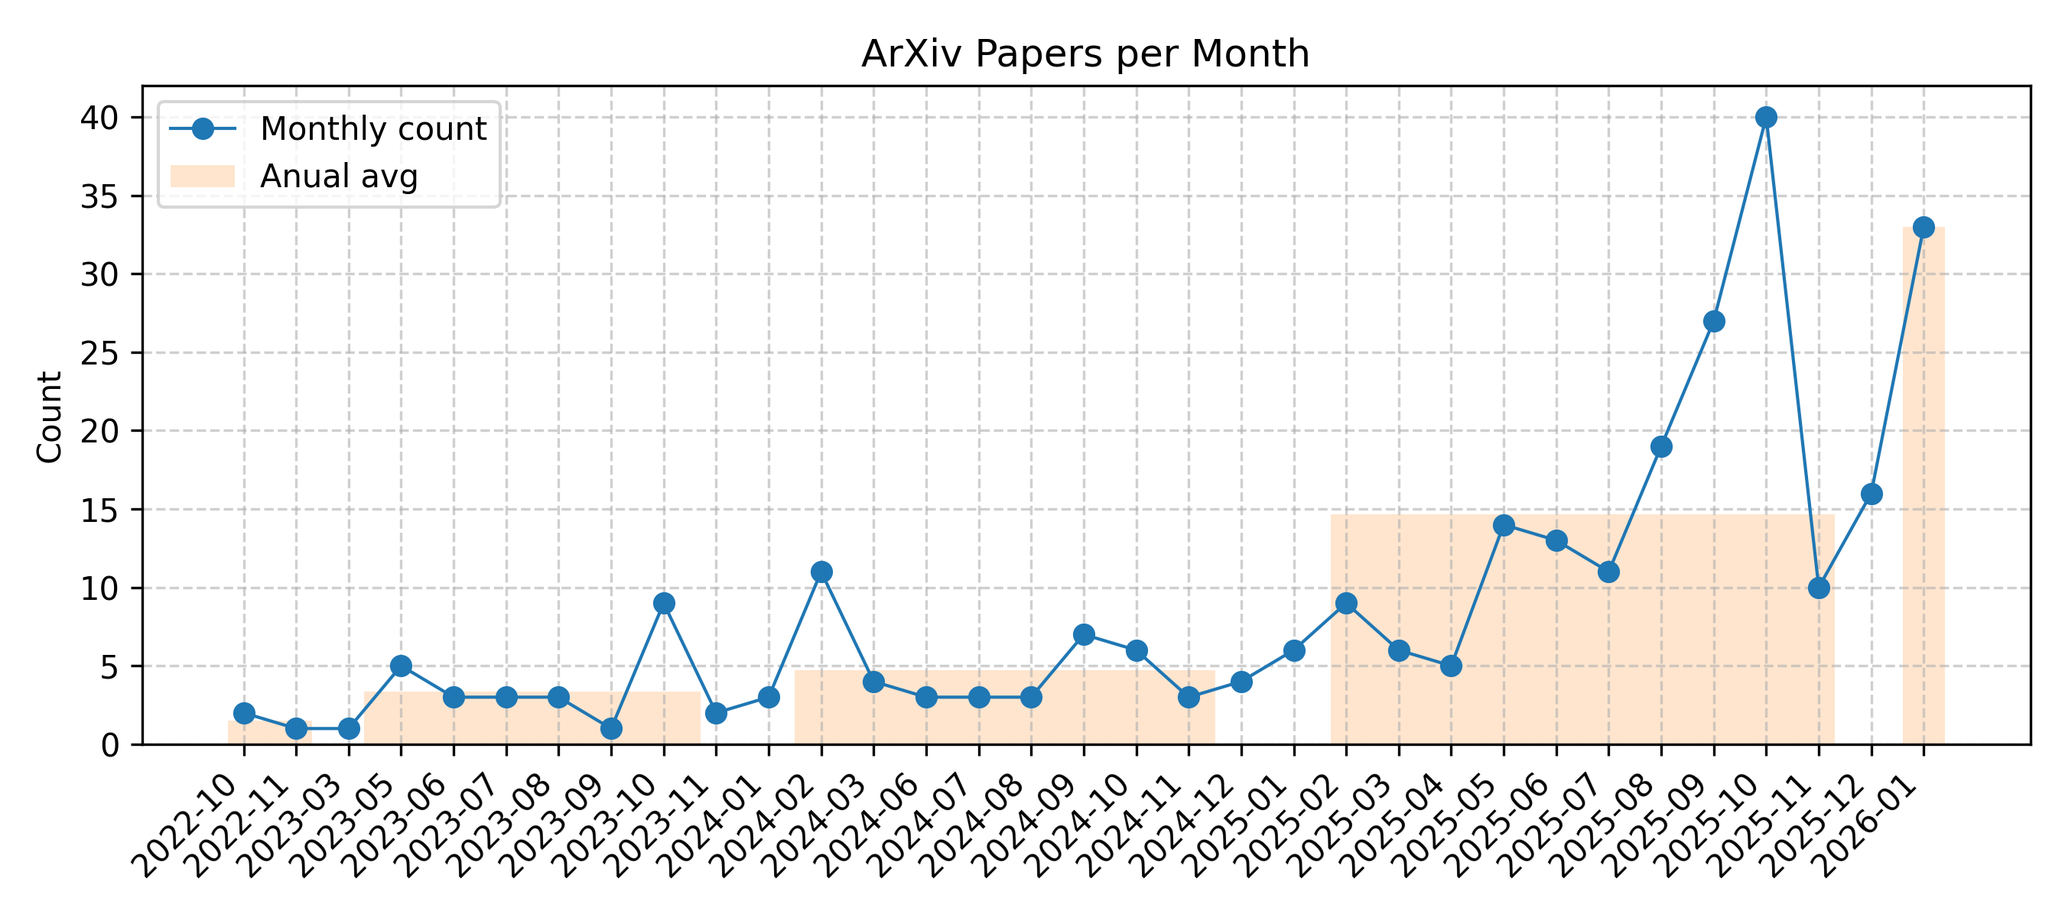
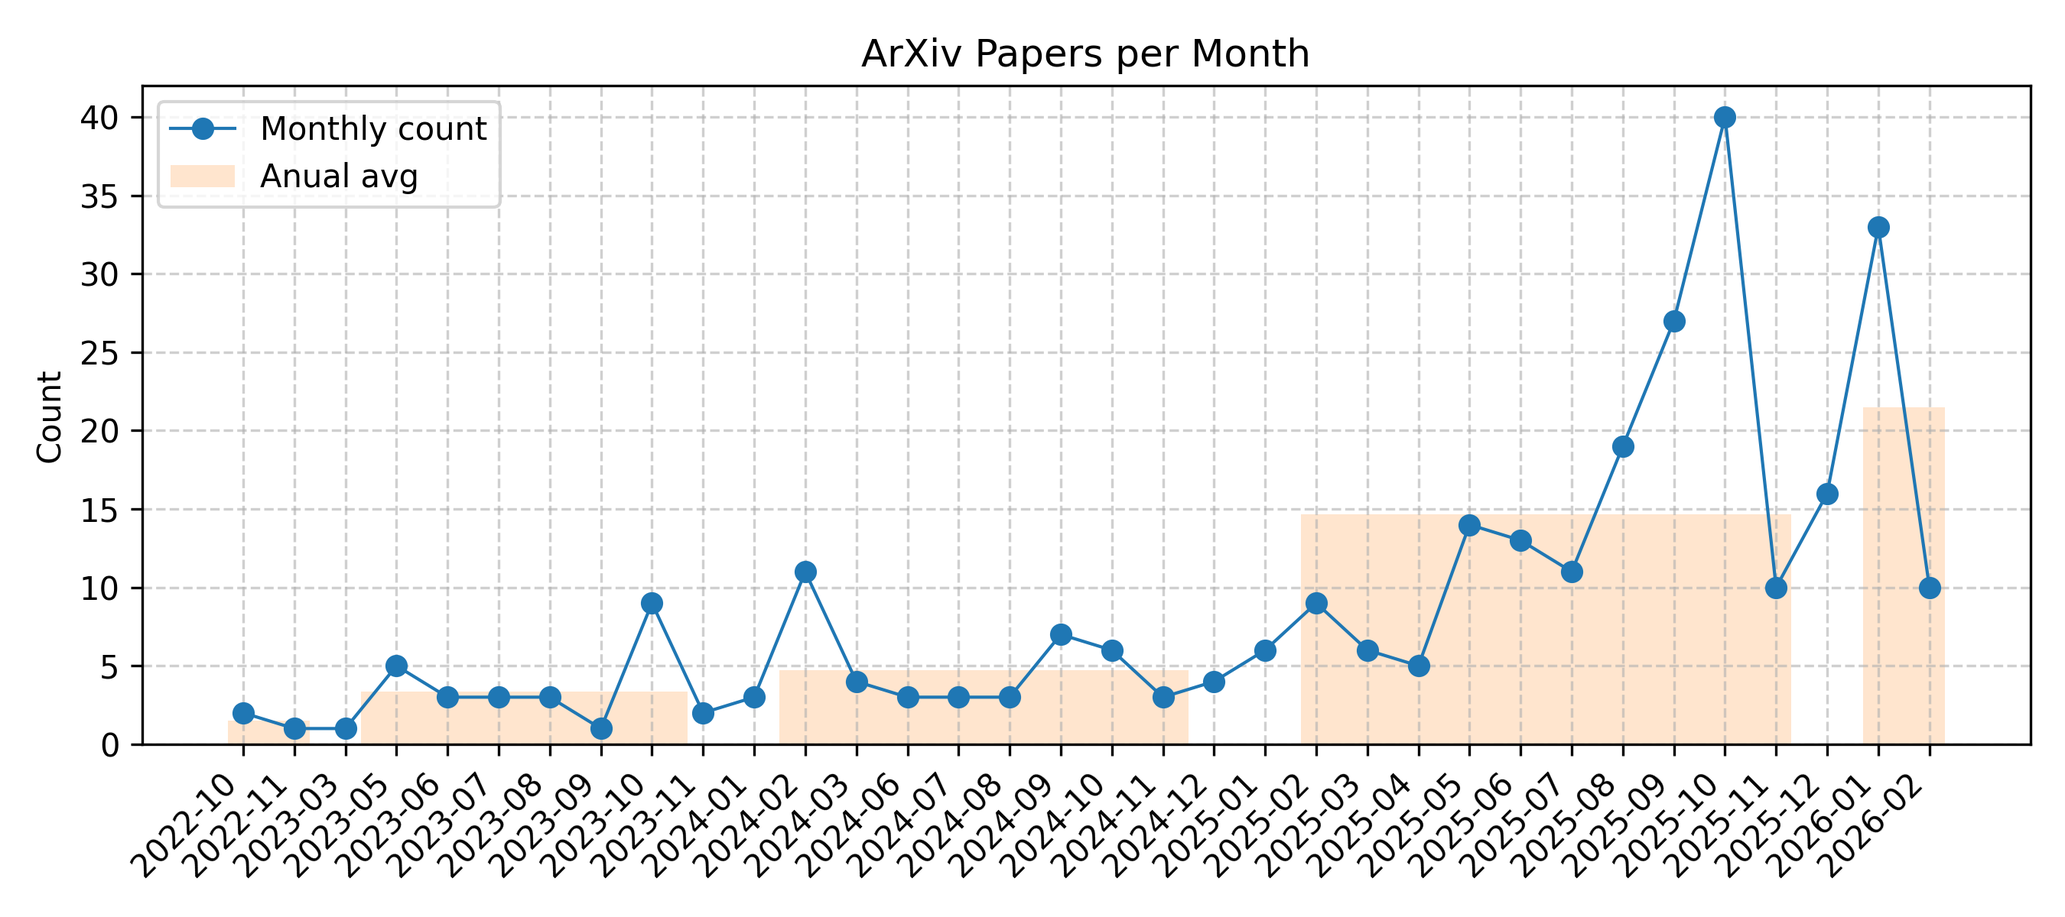
Github Action Automatic Update Diffusion NLP Arxiv Papers

Changed region(s): [[0.0622, 0.0925, 0.9644, 0.9558]]

diff --git a/README.md b/README.md
@@ -5,7 +5,7 @@
 
 For more carefully curated articles, you can refer to this [repository](https://github.com/bansky-cl/Diffusion_NLP_Papers).
 
-## Updated on 2026.02.02
+## Updated on 2026.02.03
 
 ![Monthly Trend](imgs/trend.png)
 
@@ -13,6 +13,16 @@ For more carefully curated articles, you can refer to this [repository](https://
 
 |Date|Title|label|Abstract|PDF|Code|
 |---|---|---|---|---|---|
+|**2026-02-02**|**AR-MAP: Are Autoregressive Large Language Models Implicit Teachers for Diffusion Large Language Models?**|cs.CL| <details><summary>Full Abstract</summary>Diffusion Large Language Models (DLLMs) have emerged as a powerful alternative to autoregressive models, enabling parallel token generation across multiple positions. However, preference alignment of DLLMs remains challenging due to high variance introduced by Evidence Lower Bound (ELBO)-based likelihood estimation. In this work, we propose AR-MAP, a novel transfer learning framework that leverages preference-aligned autoregressive LLMs (AR-LLMs) as implicit teachers for DLLM alignment. We reveal that DLLMs can effectively absorb alignment knowledge from AR-LLMs through simple weight scaling, exploiting the shared architectural structure between these divergent generation paradigms. Crucially, our approach circumvents the high variance and computational overhead of direct DLLM alignment and comprehensive experiments across diverse preference alignment tasks demonstrate that AR-MAP achieves competitive or superior performance compared to existing DLLM-specific alignment methods, achieving 69.08\% average score across all tasks and models. Our Code is available at https://github.com/AMAP-ML/AR-MAP.</details>|[2602.02178v1](http://arxiv.org/abs/2602.02178v1)| null|
+|**2026-02-02**|**Focus-dLLM: Accelerating Long-Context Diffusion LLM Inference via Confidence-Guided Context Focusing**|cs.CL| <details><summary>Full Abstract</summary>Diffusion Large Language Models (dLLMs) deliver strong long-context processing capability in a non-autoregressive decoding paradigm. However, the considerable computational cost of bidirectional full attention limits the inference efficiency. Although sparse attention is promising, existing methods remain ineffective. This stems from the need to estimate attention importance for tokens yet to be decoded, while the unmasked token positions are unknown during diffusion. In this paper, we present Focus-dLLM, a novel training-free attention sparsification framework tailored for accurate and efficient long-context dLLM inference. Based on the finding that token confidence strongly correlates across adjacent steps, we first design a past confidence-guided indicator to predict unmasked regions. Built upon this, we propose a sink-aware pruning strategy to accurately estimate and remove redundant attention computation, while preserving highly influential attention sinks. To further reduce overhead, this strategy reuses identified sink locations across layers, leveraging the observed cross-layer consistency. Experimental results show that our method offers more than $29\times$ lossless speedup under $32K$ context length. The code is publicly available at: https://github.com/Longxmas/Focus-dLLM</details>|[2602.02159v1](http://arxiv.org/abs/2602.02159v1)| null|
+|**2026-02-02**|**Understanding the Reversal Curse Mitigation in Masked Diffusion Models through Attention and Training Dynamics**|cs.AI, cs.CL| <details><summary>Full Abstract</summary>Autoregressive language models (ARMs) suffer from the reversal curse: after learning that "$A$ is $B$", they often fail on the reverse query "$B$ is $A$". Masked diffusion-based language models (MDMs) exhibit this failure in a much weaker form, but the underlying reason has remained unclear. A common explanation attributes this mitigation to the any-order training objective. However, observing "[MASK] is $B$" during training does not necessarily teach the model to handle the reverse prompt "$B$ is [MASK]". We show that the mitigation arises from architectural structure and its interaction with training. In a one-layer Transformer encoder, weight sharing couples the two directions by making forward and reverse attention scores positively correlated. In the same setting, we further show that the corresponding gradients are aligned, so minimizing the forward loss also reduces the reverse loss. Experiments on both controlled toy tasks and large-scale diffusion language models support these mechanisms, explaining why MDMs partially overcome a failure mode that persists in strong ARMs.</details>|[2602.02133v1](http://arxiv.org/abs/2602.02133v1)| null|
+|**2026-02-02**|**Unifying Masked Diffusion Models with Various Generation Orders and Beyond**|cs.LG, cs.AI, cs.CL| <details><summary>Full Abstract</summary>Masked diffusion models (MDMs) are a potential alternative to autoregressive models (ARMs) for language generation, but generation quality depends critically on the generation order. Prior work either hard-codes an ordering (e.g., blockwise left-to-right) or learns an ordering policy for a pretrained MDM, which incurs extra cost and can yield suboptimal solutions due to the two-stage optimization. Motivated by this, we propose order-expressive masked diffusion model (OeMDM) for a broad class of diffusion generative processes with various generation orders, enabling the interpretation of MDM, ARM, and block diffusion in a single framework. Furthermore, building on OeMDM, we introduce learnable-order masked diffusion model (LoMDM), which jointly learns the generation ordering and diffusion backbone through a single objective from scratch, enabling the diffusion model to generate text in context-dependent ordering. Empirically, we confirm that LoMDM outperforms various discrete diffusion models across multiple language modeling benchmarks.</details>|[2602.02112v1](http://arxiv.org/abs/2602.02112v1)| null|
+|**2026-02-01**|**Balancing Understanding and Generation in Discrete Diffusion Models**|cs.CL| <details><summary>Full Abstract</summary>In discrete generative modeling, two dominant paradigms demonstrate divergent capabilities: Masked Diffusion Language Models (MDLM) excel at semantic understanding and zero-shot generalization, whereas Uniform-noise Diffusion Language Models (UDLM) achieve strong few-step generation quality, yet neither attains balanced performance across both dimensions. To address this, we propose XDLM, which bridges the two paradigms via a stationary noise kernel. XDLM offers two key contributions: (1) it provides a principled theoretical unification of MDLM and UDLM, recovering each paradigm as a special case; and (2) an alleviated memory bottleneck enabled by an algebraic simplification of the posterior probabilities. Experiments demonstrate that XDLM advances the Pareto frontier between understanding capability and generation quality. Quantitatively, XDLM surpasses UDLM by 5.4 points on zero-shot text benchmarks and outperforms MDLM in few-step image generation (FID 54.1 vs. 80.8). When scaled to tune an 8B-parameter large language model, XDLM achieves 15.0 MBPP in just 32 steps, effectively doubling the baseline performance. Finally, analysis of training dynamics reveals XDLM's superior potential for long-term scaling. Code is available at https://github.com/MzeroMiko/XDLM</details>|[2602.01362v1](http://arxiv.org/abs/2602.01362v1)| null|
+|**2026-02-01**|**DreamOn: Diffusion Language Models For Code Infilling Beyond Fixed-size Canvas**|cs.CL| <details><summary>Full Abstract</summary>Diffusion Language Models (DLMs) present a compelling alternative to autoregressive models, offering flexible, any-order infilling without specialized prompting design. However, their practical utility is blocked by a critical limitation: the requirement of a fixed-length masked sequence for generation. This constraint severely degrades code infilling performance when the predefined mask size mismatches the ideal completion length. To address this, we propose DreamOn, a novel diffusion framework that enables dynamic, variable-length generation. DreamOn augments the diffusion process with two length control states, allowing the model to autonomously expand or contract the output length based solely on its own predictions. We integrate this mechanism into existing DLMs with minimal modifications to the training objective and no architectural changes. Built upon Dream-Coder-7B and DiffuCoder-7B, DreamOn achieves infilling performance on par with state-of-the-art autoregressive models on HumanEval-Infilling and SantaCoder-FIM and matches oracle performance achieved with ground-truth length. Our work removes a fundamental barrier to the practical deployment of DLMs, significantly advancing their flexibility and applicability for variable-length generation. Our code is available at https://github.com/DreamLM/DreamOn.</details>|[2602.01326v1](http://arxiv.org/abs/2602.01326v1)| null|
+|**2026-01-31**|**Lookahead-then-Verify: Reliable Constrained Decoding for Diffusion LLMs under Context-Free Grammars**|cs.CL| <details><summary>Full Abstract</summary>Diffusion Large Language Models (dLLMs) have demonstrated promising generative capabilities and are increasingly used to produce formal languages defined by context-free grammars, such as source code and chemical expressions. However, as probabilistic models, they still struggle to generate syntactically valid outputs reliably. A natural and promising direction to address this issue is to adapt constrained decoding techniques to enforce grammatical correctness during generation. However, applying these techniques faces two primary obstacles. On the one hand, the non-autoregressive nature of dLLMs renders most existing constrained decoding approaches inapplicable. On the other hand, current approaches specifically designed for dLLMs may allow intermediate outputs that are impossible to complete into valid sentences, which significantly limits their reliability in practice.   To address these challenges, we present LAVE, a constrained decoding approach specifically designed for dLLMs. Our approach leverages a key property of dLLMs, namely their ability to predict token distributions for all positions in parallel during each forward pass. Whenever a new token is proposed by model, LAVE performs lookahead using these distributions to efficiently and reliably verify the validity of the proposed token. This design ensures reliable constraints by reliably preserving the potential for intermediate outputs to be extended into valid sentences. Extensive experiments across four widely used dLLMs and three representative benchmarks demonstrate that LAVE consistently outperforms existing baselines and achieves substantial improvements in syntactic correctness, while incurring negligible runtime overhead.</details>|[2602.00612v1](http://arxiv.org/abs/2602.00612v1)| null|
+|**2026-01-31**|**Diffusion LMs Can Approximate Optimal Infilling Lengths Implicitly**|cs.LG, cs.CL| <details><summary>Full Abstract</summary>Diffusion language models (DLMs) provide a bidirectional generation framework naturally suited for infilling, yet their performance is constrained by the pre-specified infilling length. In this paper, we reveal that DLMs possess an inherent ability to discover the correct infilling length. We identify two key statistical phenomena in the first-step denoising confidence: a local \textit{Oracle Peak} that emerges near the ground-truth length and a systematic \textit{Length Bias} that often obscures this signal. By leveraging this signal and calibrating the bias, our training-free method \textbf{CAL} (\textbf{C}alibrated \textbf{A}daptive \textbf{L}ength) enables DLMs to approximate the optimal length through an efficient search before formal decoding. Empirical evaluations demonstrate that CAL improves Pass@1 by up to 47.7\% over fixed-length baselines and 40.5\% over chat-based adaptive methods in code infilling, while boosting BLEU-2 and ROUGE-L by up to 8.5\% and 9.9\% in text infilling. These results demonstrate that CAL paves the way for robust DLM infilling without requiring any specialized training. Code is available at https://github.com/NiuHechang/Calibrated_Adaptive_Length.</details>|[2602.00476v1](http://arxiv.org/abs/2602.00476v1)| null|
+|**2026-01-30**|**TABES: Trajectory-Aware Backward-on-Entropy Steering for Masked Diffusion Models**|cs.LG, cs.AI, cs.CL| <details><summary>Full Abstract</summary>Masked Diffusion Models (MDMs) have emerged as a promising non-autoregressive paradigm for generative tasks, offering parallel decoding and bidirectional context utilization. However, current sampling methods rely on simple confidence-based heuristics that ignore the long-term impact of local decisions, leading to trajectory lock-in where early hallucinations cascade into global incoherence. While search-based methods mitigate this, they incur prohibitive computational costs ($O(K)$ forward passes per step). In this work, we propose Backward-on-Entropy (BoE) Steering, a gradient-guided inference framework that approximates infinite-horizon lookahead via a single backward pass. We formally derive the Token Influence Score (TIS) from a first-order expansion of the trajectory cost functional, proving that the gradient of future entropy with respect to input embeddings serves as an optimal control signal for minimizing uncertainty. To ensure scalability, we introduce \texttt{ActiveQueryAttention}, a sparse adjoint primitive that exploits the structure of the masking objective to reduce backward pass complexity. BoE achieves a superior Pareto frontier for inference-time scaling compared to existing unmasking methods, demonstrating that gradient-guided steering offers a mathematically principled and efficient path to robust non-autoregressive generation. We will release the code.</details>|[2602.00250v1](http://arxiv.org/abs/2602.00250v1)| null|
+|**2026-01-29**|**Reversible Diffusion Decoding for Diffusion Language Models**|cs.CL, cs.AI| <details><summary>Full Abstract</summary>Diffusion language models enable parallel token generation through block-wise decoding, but their irreversible commitments can lead to stagnation, where the reverse diffusion process fails to make further progress under a suboptimal context.We propose Reversible Diffusion Decoding (RDD), a decoding framework that introduces reversibility into block-wise diffusion generation. RDD detects stagnation as a state-dependent failure of the reverse process and enables efficient backtracking to earlier blocks without recomputation via cached model states. To avoid repeated failure trajectories, RDD applies confidence-guided re-masking to selectively reinitialize uncertain tokens while preserving reliable context.This reversible formulation allows decoding to recover from early commitment errors while maintaining the parallel efficiency of diffusion-based generation. Experiments show that RDD improves generation robustness and quality over baselines with minimal computational overhead.</details>|[2602.00150v1](http://arxiv.org/abs/2602.00150v1)| null|
 |**2026-01-30**|**FourierSampler: Unlocking Non-Autoregressive Potential in Diffusion Language Models via Frequency-Guided Generation**|cs.CL| <details><summary>Full Abstract</summary>Despite the non-autoregressive potential of diffusion language models (dLLMs), existing decoding strategies demonstrate positional bias, failing to fully unlock the potential of arbitrary generation. In this work, we delve into the inherent spectral characteristics of dLLMs and present the first frequency-domain analysis showing that low-frequency components in hidden states primarily encode global structural information and long-range dependencies, while high-frequency components are responsible for characterizing local details. Based on this observation, we propose FourierSampler, which leverages a frequency-domain sliding window mechanism to dynamically guide the model to achieve a "structure-to-detail" generation. FourierSampler outperforms other inference enhancement strategies on LLADA and SDAR, achieving relative improvements of 20.4% on LLaDA1.5-8B and 16.0% on LLaDA-8B-Instruct. It notably surpasses similarly sized autoregressive models like Llama3.1-8B-Instruct.</details>|[2601.23182v1](http://arxiv.org/abs/2601.23182v1)| null|
 |**2026-01-30**|**Residual Context Diffusion Language Models**|cs.CL, cs.AI| <details><summary>Full Abstract</summary>Diffusion Large Language Models (dLLMs) have emerged as a promising alternative to purely autoregressive language models because they can decode multiple tokens in parallel. However, state-of-the-art block-wise dLLMs rely on a "remasking" mechanism that decodes only the most confident tokens and discards the rest, effectively wasting computation. We demonstrate that recycling computation from the discarded tokens is beneficial, as these tokens retain contextual information useful for subsequent decoding iterations. In light of this, we propose Residual Context Diffusion (RCD), a module that converts these discarded token representations into contextual residuals and injects them back for the next denoising step. RCD uses a decoupled two-stage training pipeline to bypass the memory bottlenecks associated with backpropagation. We validate our method on both long CoT reasoning (SDAR) and short CoT instruction following (LLaDA) models. We demonstrate that a standard dLLM can be efficiently converted to the RCD paradigm with merely ~1 billion tokens. RCD consistently improves frontier dLLMs by 5-10 points in accuracy with minimal extra computation overhead across a wide range of benchmarks. Notably, on the most challenging AIME tasks, RCD nearly doubles baseline accuracy and attains up to 4-5x fewer denoising steps at equivalent accuracy levels.</details>|[2601.22954v1](http://arxiv.org/abs/2601.22954v1)| null|
 |**2026-01-30**|**Relaxing Positional Alignment in Masked Diffusion Language Models**|cs.CL, cs.LG| <details><summary>Full Abstract</summary>Masked diffusion language models (MDLMs) have emerged as a promising alternative to dominant autoregressive approaches. Although they achieve competitive performance on several tasks, a substantial gap remains in open-ended text generation. We hypothesize that one cause of this gap is that strict positional prediction makes MDLM decoding highly sensitive to token misalignment, and we show through controlled interventions that a one-position shift can severely disrupt semantics. This observation suggests that enforcing strict positional supervision during training is misaligned with the irreversible denoising dynamics of MDLM decoding. Motivated by this mismatch, we adopt an alignment-flexible supervision strategy during fine-tuning. Specifically, we introduce a special token <slack> via the connectionist temporal classification objective. We apply this approach to the widely used MDLM model and conduct experiments on five open-ended text generation benchmarks. Our method consistently outperforms the original model and improves robustness to positional shifts, indicating that relaxing strict positional supervision is an important factor in improving generation quality in MDLMs.</details>|[2601.22947v1](http://arxiv.org/abs/2601.22947v1)| null|
@@ -300,7 +310,7 @@ For more carefully curated articles, you can refer to this [repository](https://
 |**2022-11-01**|**DiffusER: Discrete Diffusion via Edit-based Reconstruction**|cs.CL, cs.LG| <details><summary>Full Abstract</summary>In text generation, models that generate text from scratch one token at a time are currently the dominant paradigm. Despite being performant, these models lack the ability to revise existing text, which limits their usability in many practical scenarios. We look to address this, with DiffusER (Diffusion via Edit-based Reconstruction), a new edit-based generative model for text based on denoising diffusion models -- a class of models that use a Markov chain of denoising steps to incrementally generate data. DiffusER is not only a strong generative model in general, rivalling autoregressive models on several tasks spanning machine translation, summarization, and style transfer; it can also perform other varieties of generation that standard autoregressive models are not well-suited for. For instance, we demonstrate that DiffusER makes it possible for a user to condition generation on a prototype, or an incomplete sequence, and continue revising based on previous edit steps.</details>|[2210.16886v1](http://arxiv.org/abs/2210.16886v1)| null|
 |**2023-02-01**|**Diffuser: Efficient Transformers with Multi-hop Attention Diffusion for Long Sequences**|cs.LG, cs.CL|<details><summary>Full Abstract</summary>Efficient Transformers have been developed for long sequence modeling, due to their subquadratic memory and time complexity. Sparse Transformer is a popular approach to improving the efficiency of Transformers by restricting self-attention to locations specified by the predefined sparse patterns. However, leveraging sparsity may sacrifice expressiveness compared to full-attention, when important token correlations are multiple hops away. To combine advantages of both the efficiency of sparse transformer and the expressiveness of full-attention Transformer, we propose \textit{Diffuser}, a new state-of-the-art efficient Transformer. Diffuser incorporates all token interactions within one attention layer while maintaining low computation and memory costs. The key idea is to expand the receptive field of sparse attention using Attention Diffusion, which computes multi-hop token correlations based on all paths between corresponding disconnected tokens, besides attention among neighboring tokens. Theoretically, we show the expressiveness of Diffuser as a universal sequence approximator for sequence-to-sequence modeling, and investigate its ability to approximate full-attention by analyzing the graph expander property from the spectral perspective. Experimentally, we investigate the effectiveness of Diffuser with extensive evaluations, including language modeling, image modeling, and Long Range Arena (LRA). Evaluation results show that Diffuser achieves improvements by an average of 0.94% on text classification tasks and 2.30% on LRA, with 1.67$\times$ memory savings compared to state-of-the-art benchmarks, which demonstrates superior performance of Diffuser in both expressiveness and efficiency aspects.</details>|[2210.11794v2](http://arxiv.org/abs/2210.11794v2)|**[link](https://github.com/asFeng/Diffuser)**|
 
-<p align=right>(<a href=#Updated-on-20260202>back to top</a>)</p>
+<p align=right>(<a href=#Updated-on-20260203>back to top</a>)</p>
 
 [contributors-shield]: https://img.shields.io/github/contributors/bansky-cl/diffusion-nlp-paper-arxiv.svg?style=for-the-badge
 [contributors-url]: https://github.com/bansky-cl/diffusion-nlp-paper-arxiv/graphs/contributors
